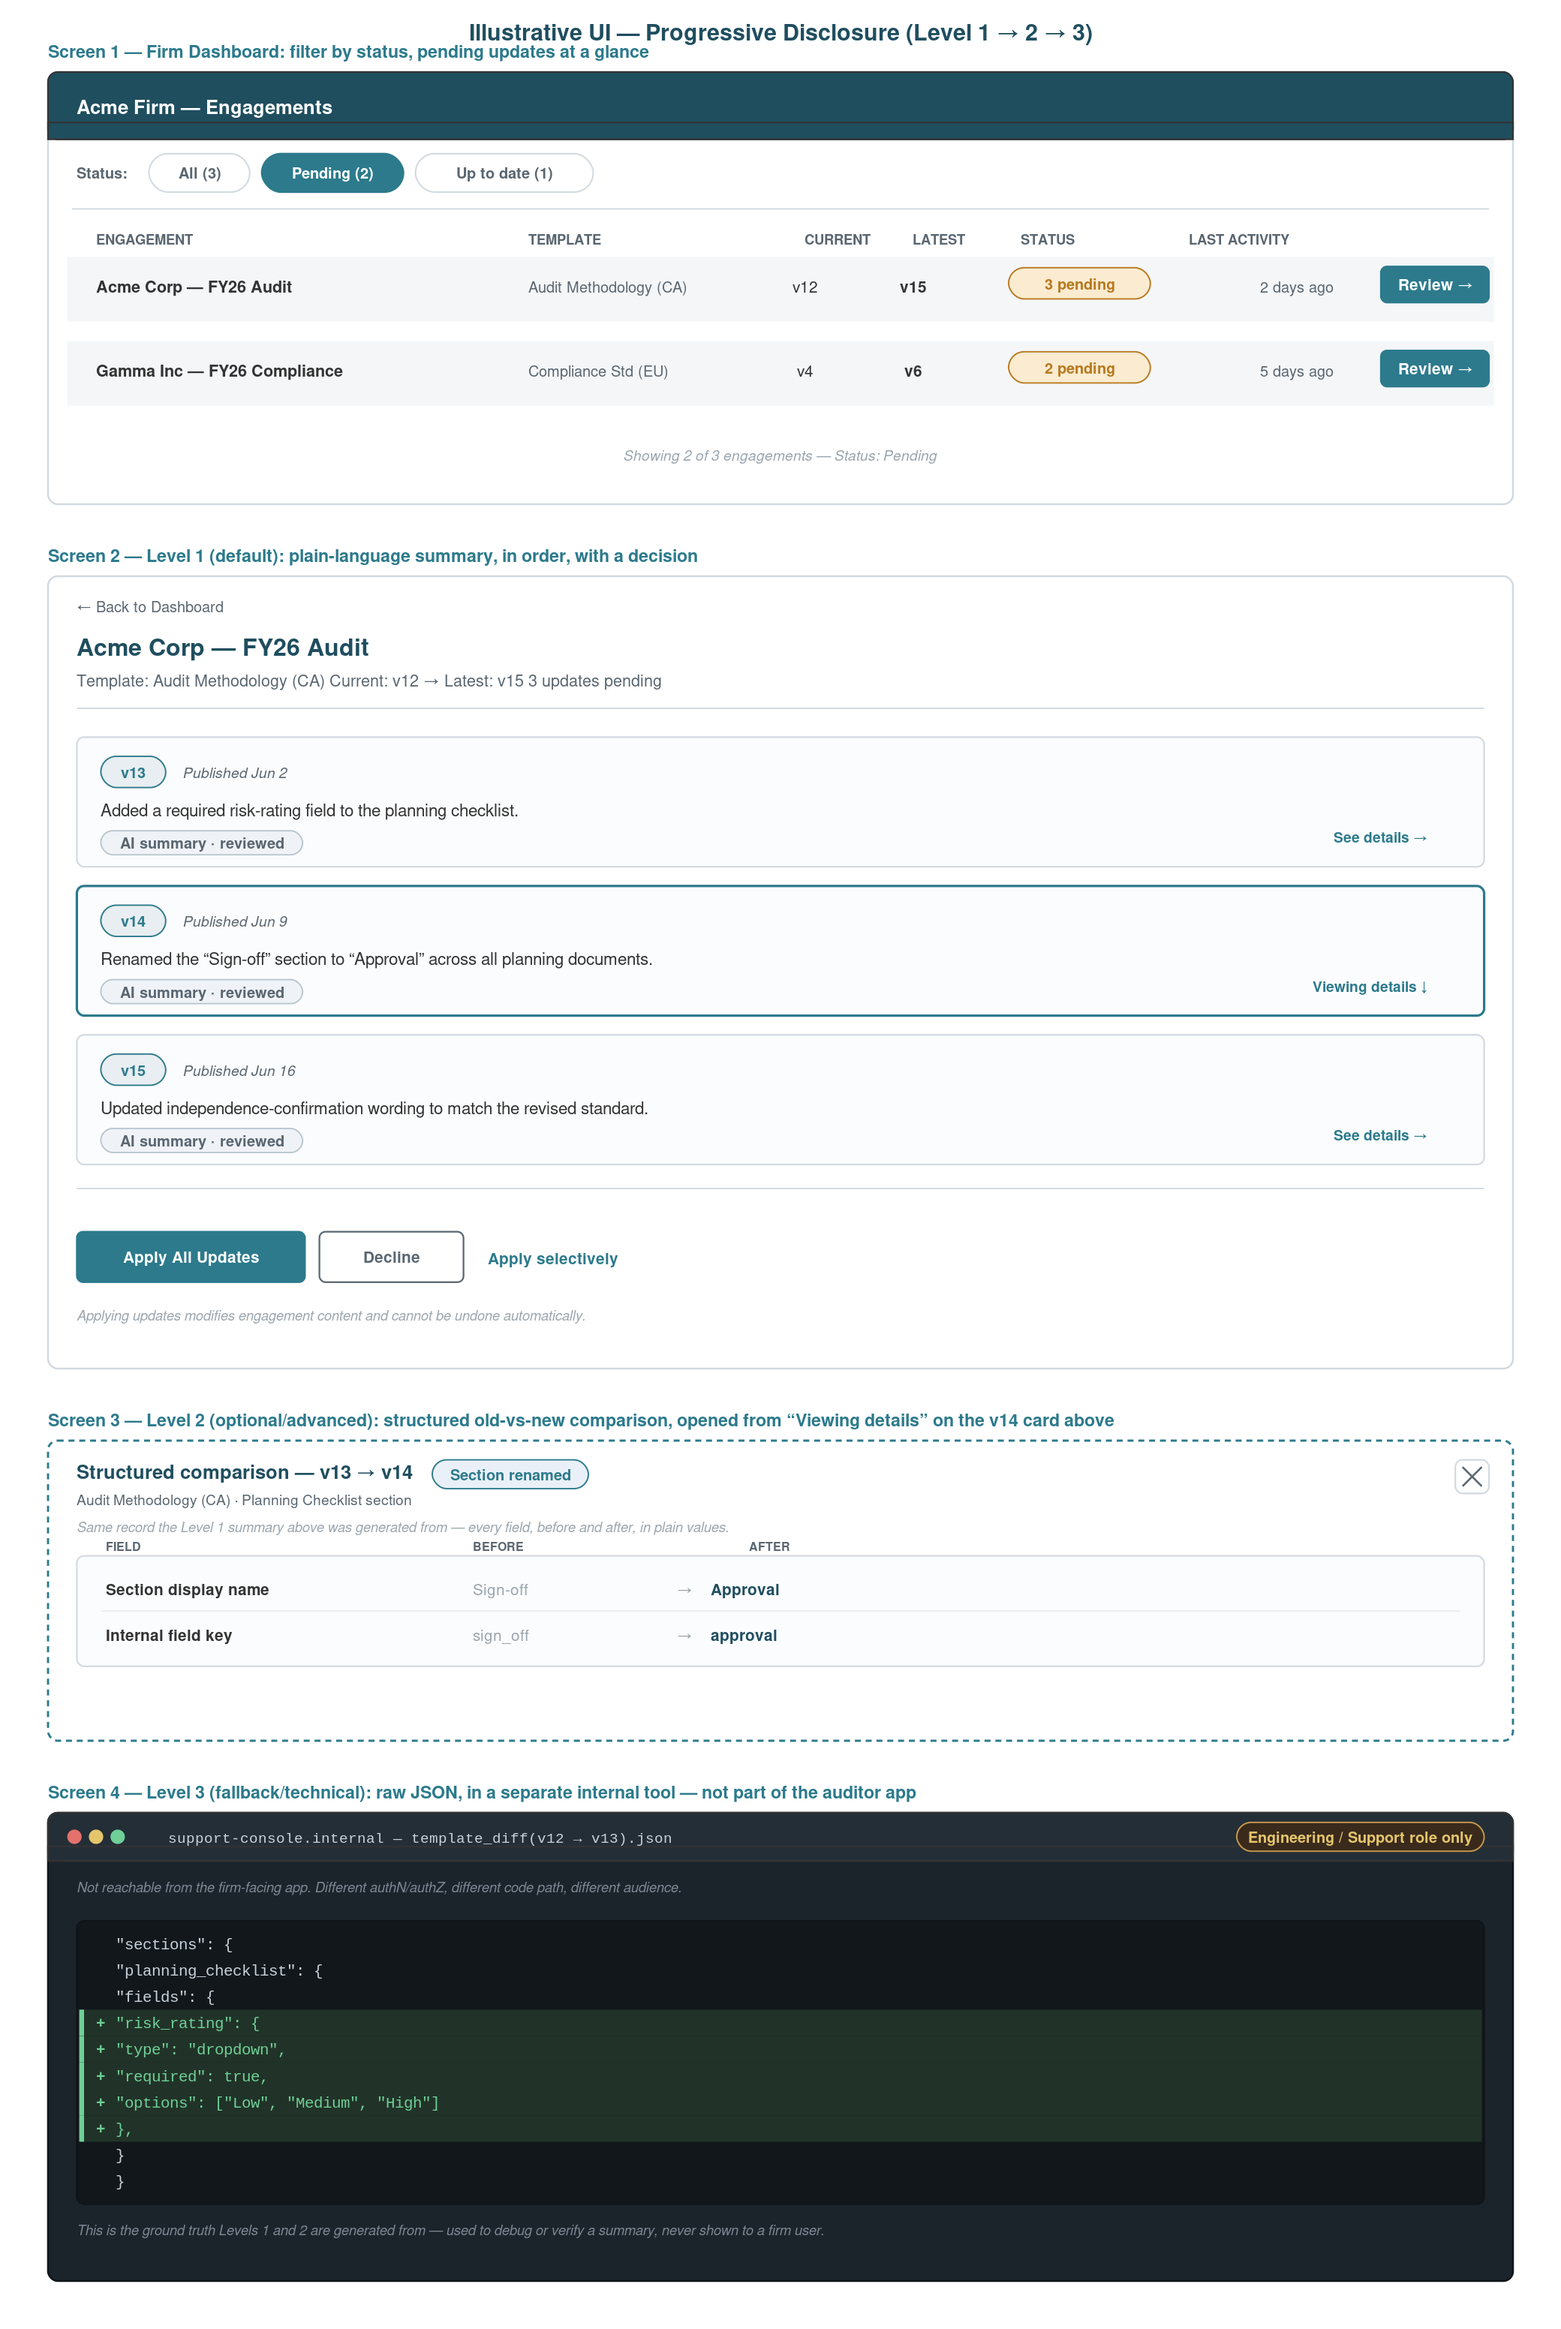
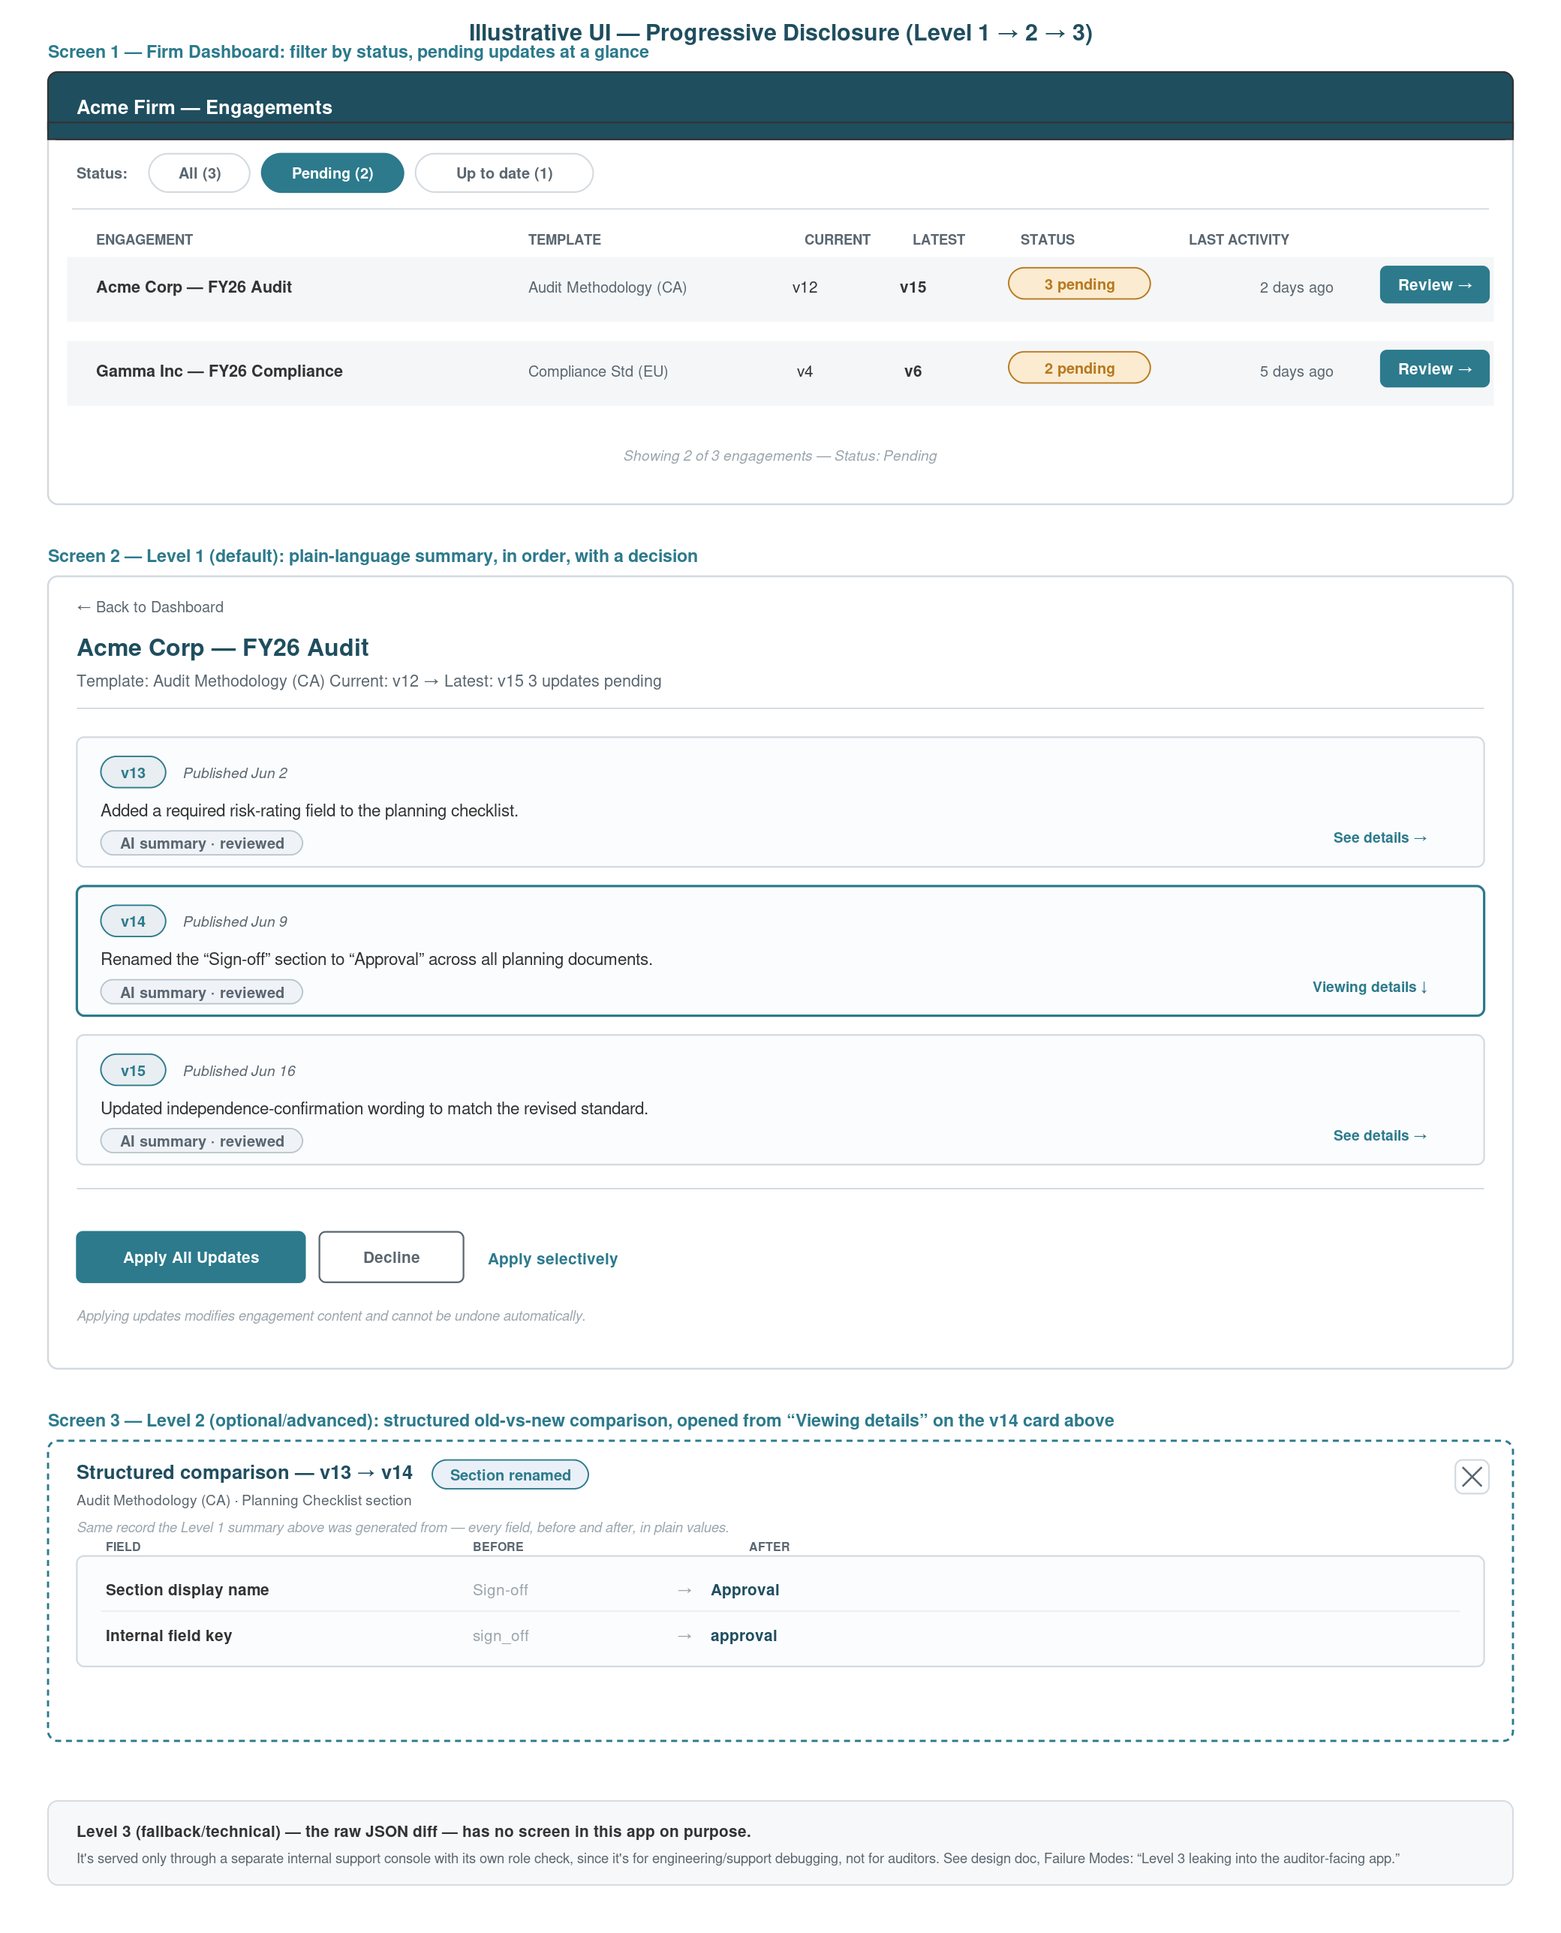
Simplify UI: remove Level 3 screen, keep it internal-only per design

diff --git a/README.md b/README.md
@@ -14,16 +14,17 @@
 
 ## UI (illustrative) — progressive disclosure
 
-Four screens, showing the same underlying change at three levels of detail plus the dashboard that gets you there:
+Three screens, showing the same v13→v14 change at two levels of detail, plus the dashboard that gets you there:
 
 1. **Firm dashboard** — filterable by status, shows only what's pending.
 2. **Level 1 (default)** — plain-language, per-version summaries in order, each flagged as an AI-generated summary that's been reviewed, leading to the apply/decline decision.
-3. **Level 2 (optional/advanced)** — a structured old-vs-new comparison for a given version hop: field names and values, before and after, side by side. Still no code syntax — just more specific than the prose summary.
-4. **Level 3 (fallback/technical)** — the raw JSON diff, deliberately styled and framed as a separate internal support console rather than a tab in the auditor app, since it's for engineering/support debugging, not for firm users.
+3. **Level 2 (optional/advanced)** — a structured old-vs-new comparison for that same version hop: field names and values, before and after, side by side. Still no code syntax — just more specific than the prose summary.
 
-Levels 1 and 2 are both generated from the same deterministic structured diff; only Level 1's prose involves an LLM, which is also the only one of the three gated behind human review before it reaches customers.
+Both are generated from the same deterministic structured diff; only Level 1's prose involves an LLM, which is why it's the only one of the two gated behind human review before it reaches customers.
 
-![Illustrative UI — dashboard, Level 1 summary, Level 2 comparison, and Level 3 internal console](ui-wireframe.png)
+Level 3 (fallback/technical — the raw JSON diff) deliberately has **no screen here**. It's mocked up nowhere in this auditor-facing UI because it isn't part of the auditor-facing product: it's served only through a separate internal support console with its own role check, for engineering/support debugging. See the design doc's Failure Modes section, "Level 3 leaking into the auditor-facing app."
+
+![Illustrative UI — dashboard, Level 1 summary, and Level 2 comparison](ui-wireframe.png)
 
 ## Running the tests
 
